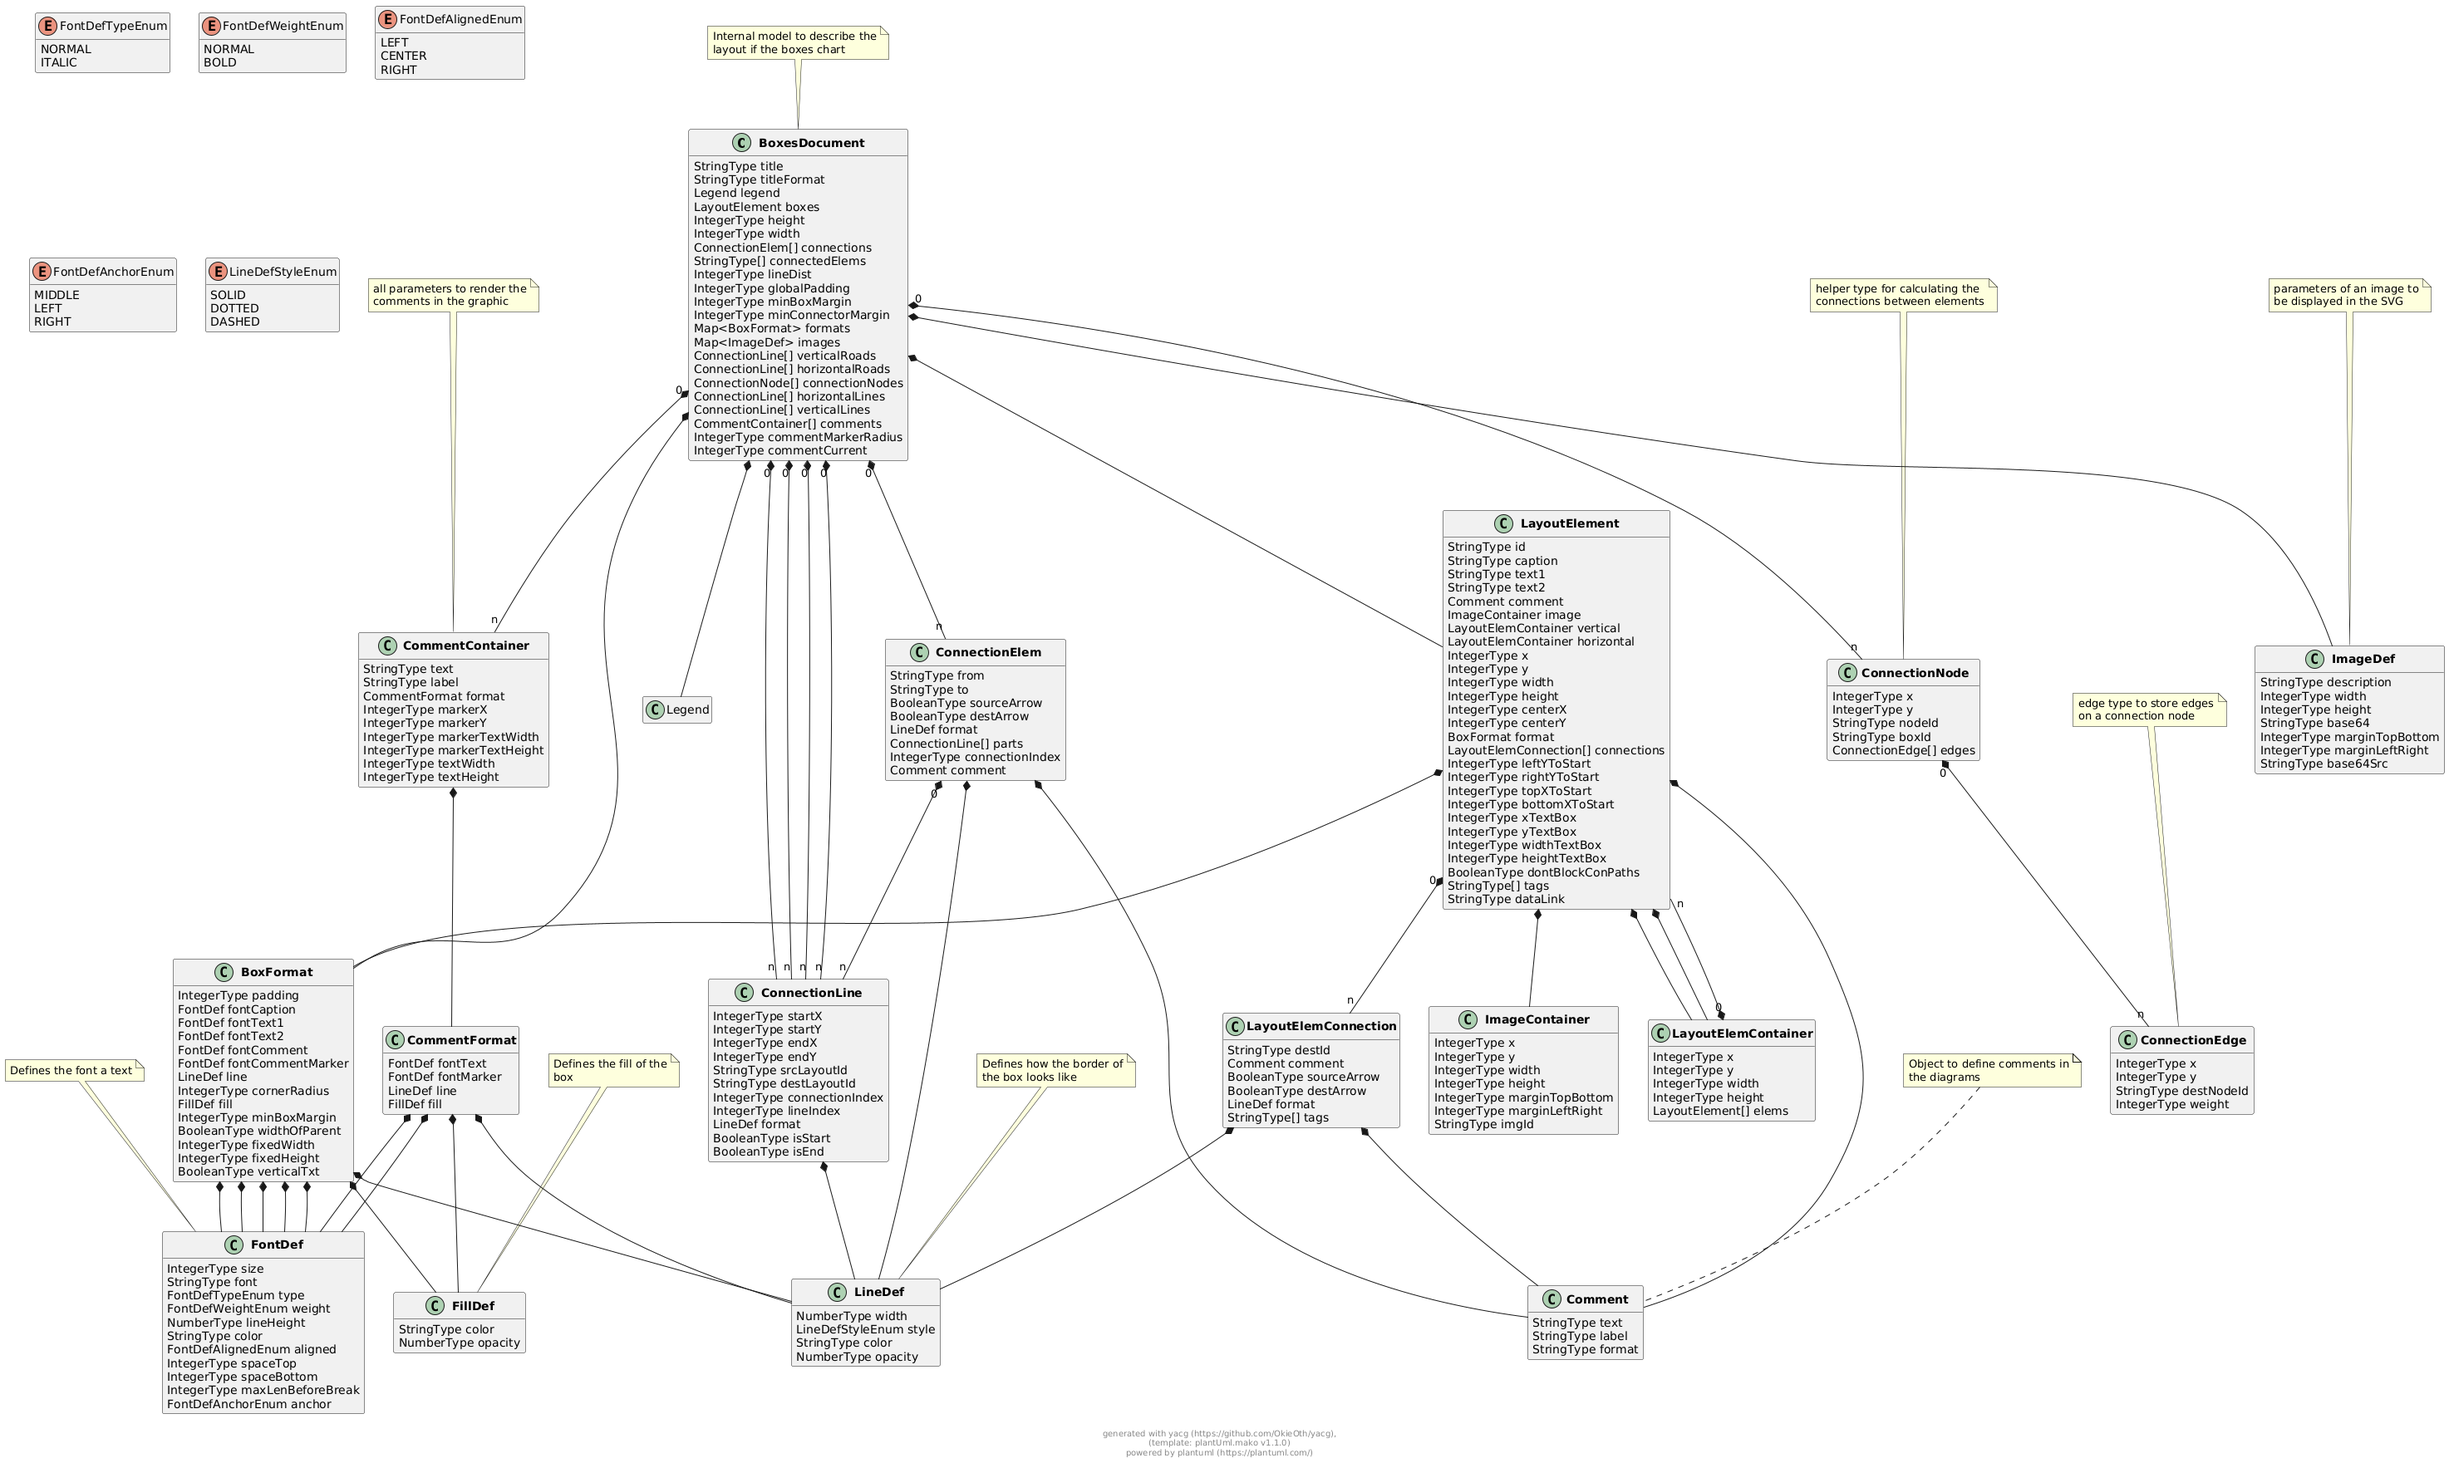
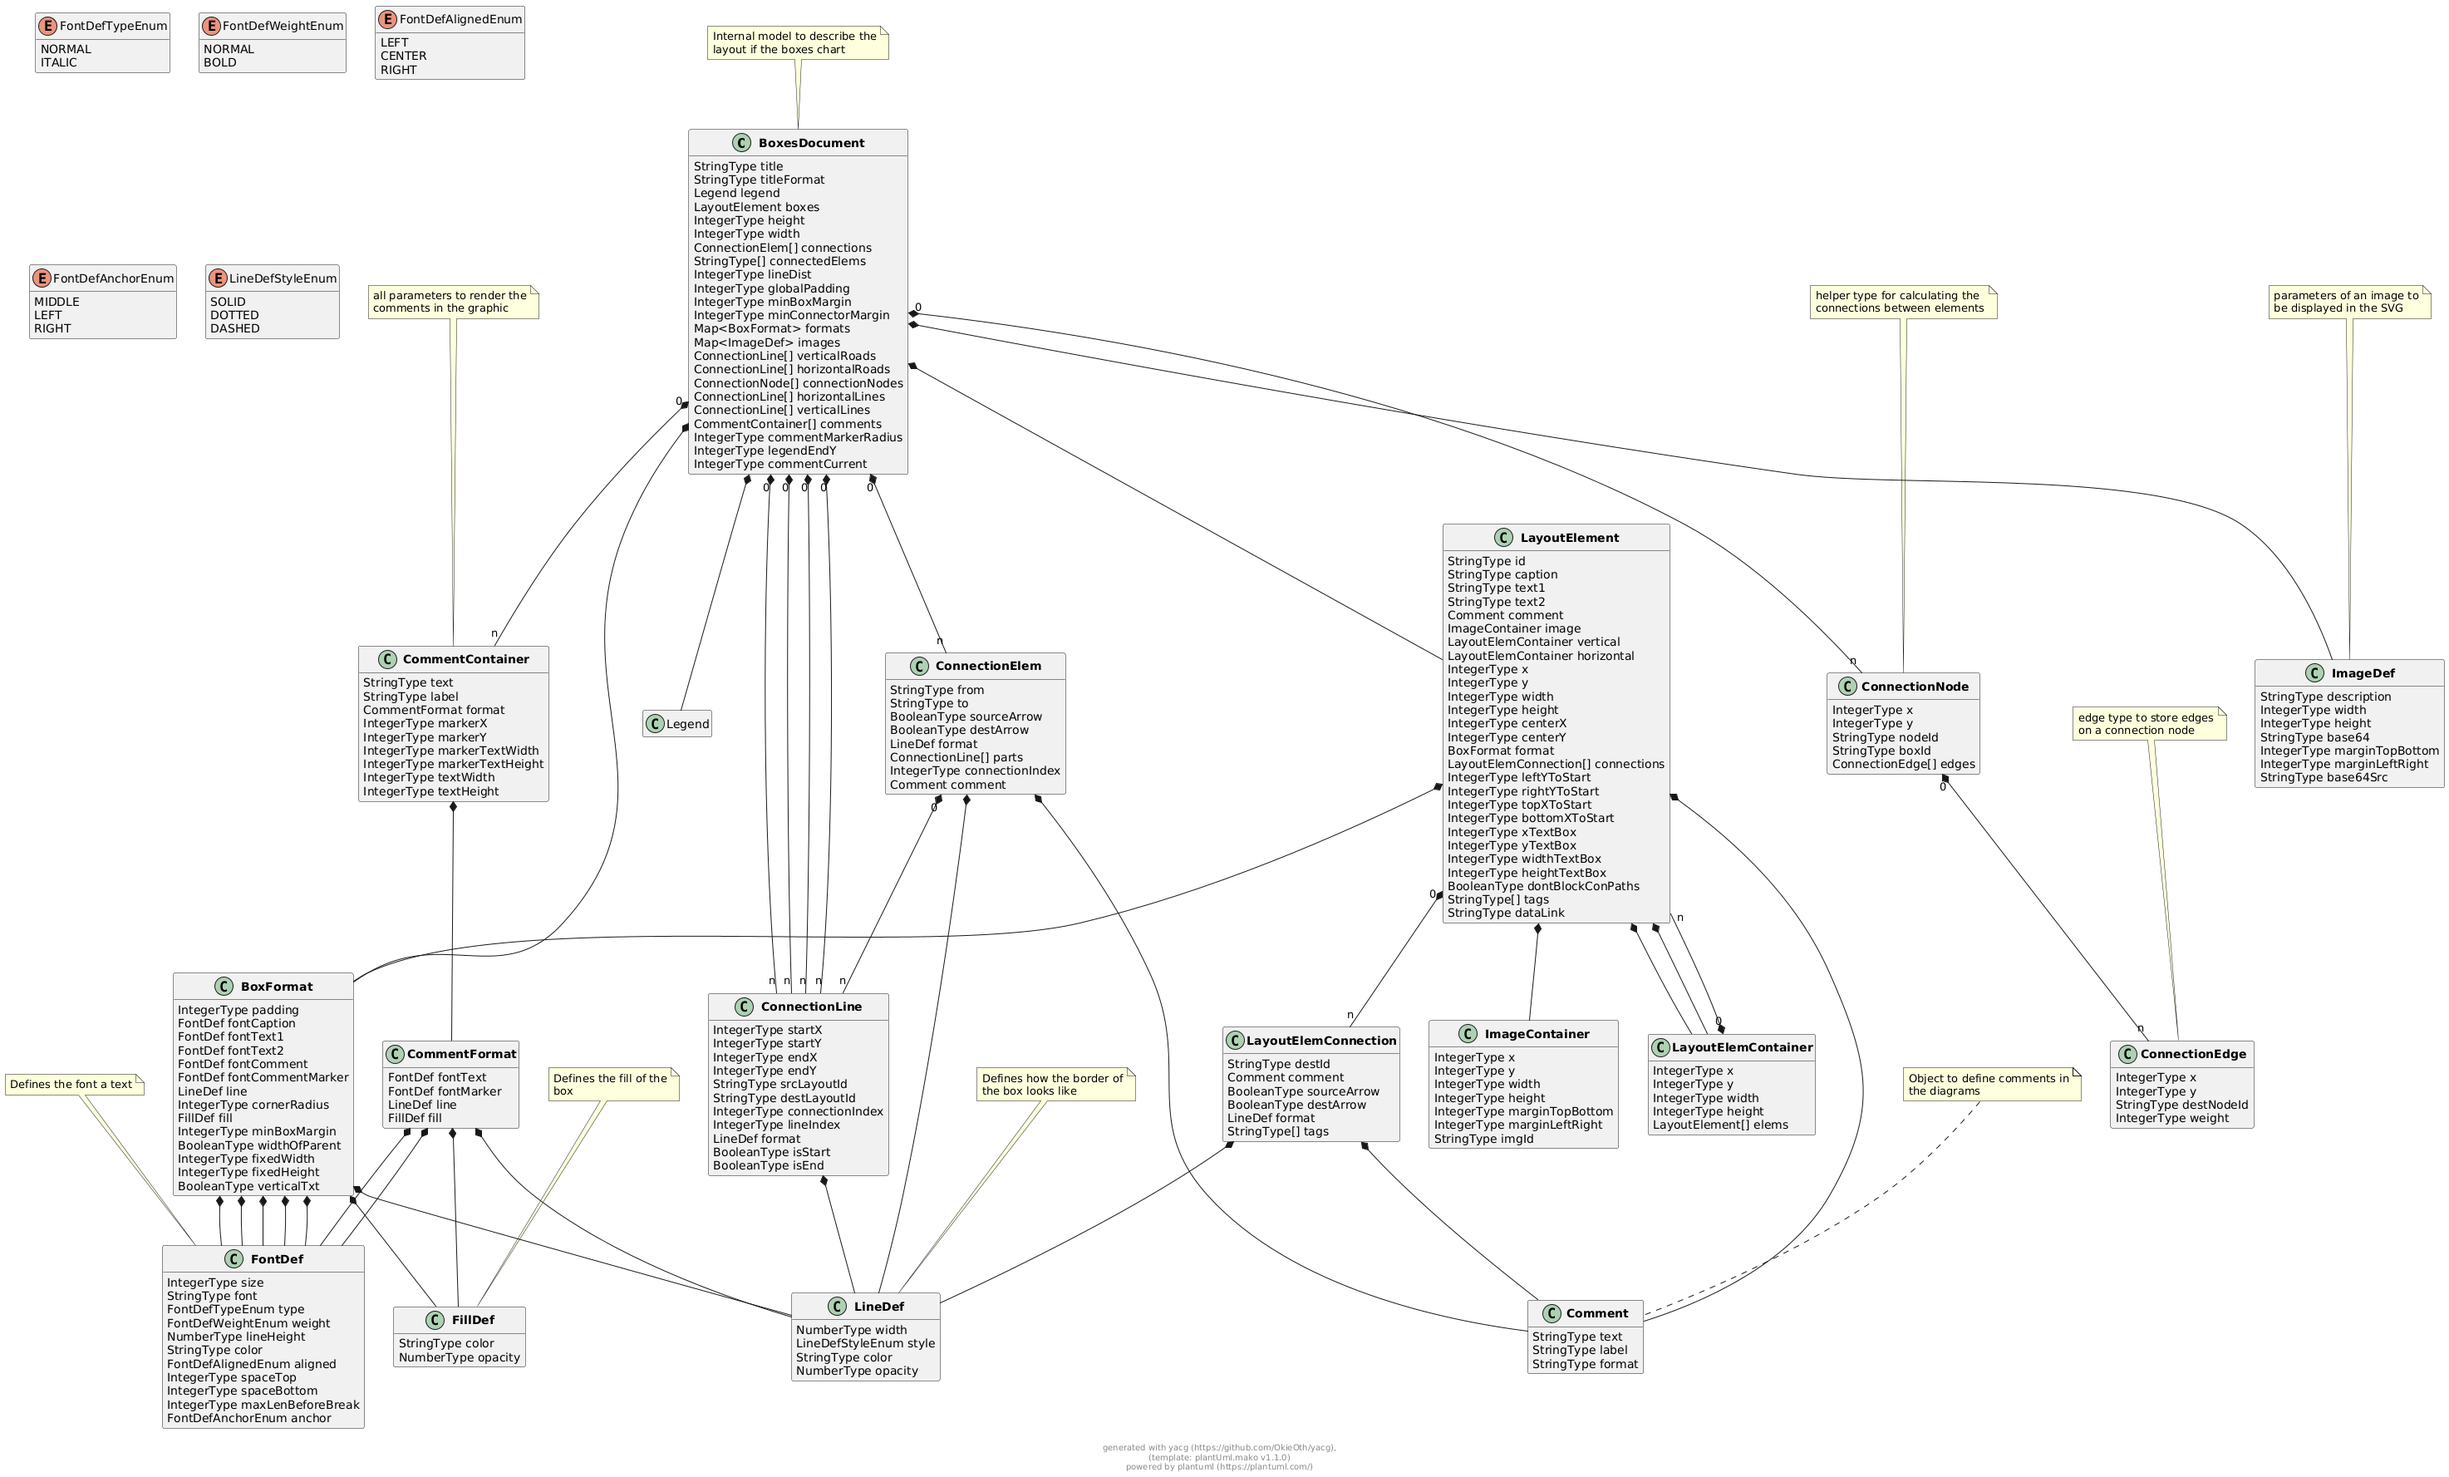
wip notes: comment texts are printed

diff --git a/pkg/types/boxes/boxestype_impl.go b/pkg/types/boxes/boxestype_impl.go
@@ -290,6 +290,7 @@ func (doc *BoxesDocument) DrawTitle(drawing types.Drawing, c types.TextDimension
 }
 func (doc *BoxesDocument) DrawLegend(drawing types.Drawing, c types.TextDimensionCalculator) error {
 	if doc.Legend != nil {
+		currentY := doc.Boxes.Y + doc.Boxes.Height
 		if len(doc.Legend.Entries) > 0 {
 			format2Use := doc.Formats["default"].FontCaption // risky doesn't check if default exists
 			if doc.Legend.Format != nil {
@@ -305,7 +306,7 @@ func (doc *BoxesDocument) DrawLegend(drawing types.Drawing, c types.TextDimensio
 				Width: &lineW,
 				Color: &lineC,
 			}
-			currentY := doc.Boxes.Y + doc.Boxes.Height + (2 * types.GlobalPadding)
+			currentY += (2 * types.GlobalPadding)
 			drawing.DrawLine(currentX, currentY-5, currentX+doc.Boxes.Width, currentY, lineFormat)
 			for i := range doc.Legend.Entries {
 				e := doc.Legend.Entries[i]
@@ -351,6 +352,7 @@ func (doc *BoxesDocument) DrawLegend(drawing types.Drawing, c types.TextDimensio
 				drawing.DrawText(",", currentX, currentY, 0, &format2Use)
 				currentX += doc.GlobalPadding
 			}
+			doc.LegendEndY = currentY
 		}
 	}
 	return nil
@@ -586,5 +588,24 @@ func (doc *BoxesDocument) drawCommentMarkers(drawing types.Drawing) error {
 }
 
 func (doc *BoxesDocument) drawCommentTexts(drawing types.Drawing, c types.TextDimensionCalculator) error {
+	markerX := doc.GlobalPadding + doc.CommentMarkerRadius
+	textX := markerX + (2 * doc.CommentMarkerRadius)
+	currentY := doc.LegendEndY
+	if currentY == 0 {
+		currentY = doc.Boxes.Y + doc.Boxes.Height
+	}
+	currentY += doc.CommentMarkerRadius
+	neededMarkerSpace := doc.CommentMarkerRadius + doc.GlobalPadding + 3
+	for i := range doc.Comments {
+		c := doc.Comments[i]
+		if c.Text == "" {
+			continue
+		}
+		drawing.DrawCircleWithBorderAndText(c.Label, markerX, currentY, doc.CommentMarkerRadius, &c.Format.Fill, &c.Format.Line, &c.Format.FontMarker)
+		c.Format.FontText.Anchor = types.FontDefAnchorEnum_left
+		c.Format.FontText.MaxLenBeforeBreak = doc.Boxes.Width
+		drawing.DrawText(c.Text, textX, currentY-(2*doc.CommentMarkerRadius), 0, &c.Format.FontText)
+		currentY += getMax(c.TextHeight, neededMarkerSpace)
+	}
 	return nil
 }

diff --git a/pkg/types/boxes/boxesdoc.go b/pkg/types/boxes/boxesdoc.go
@@ -72,6 +72,9 @@ type BoxesDocument struct {
     // hold the radius of the comment markers to use
     CommentMarkerRadius int  `yaml:"commentMarkerRadius"`
 
+    // hold the radius of the comment markers to use
+    LegendEndY int  `yaml:"legendEndY"`
+
     // helper to align tne number of unspecified markers
     CommentCurrent int  `yaml:"commentCurrent"`
 }
@@ -149,6 +152,7 @@ func CopyBoxesDocument(src *BoxesDocument) *BoxesDocument {
         ret.Comments = append(ret.Comments, e)
     }
     ret.CommentMarkerRadius = src.CommentMarkerRadius
+    ret.LegendEndY = src.LegendEndY
     ret.CommentCurrent = src.CommentCurrent
 
     return &ret
